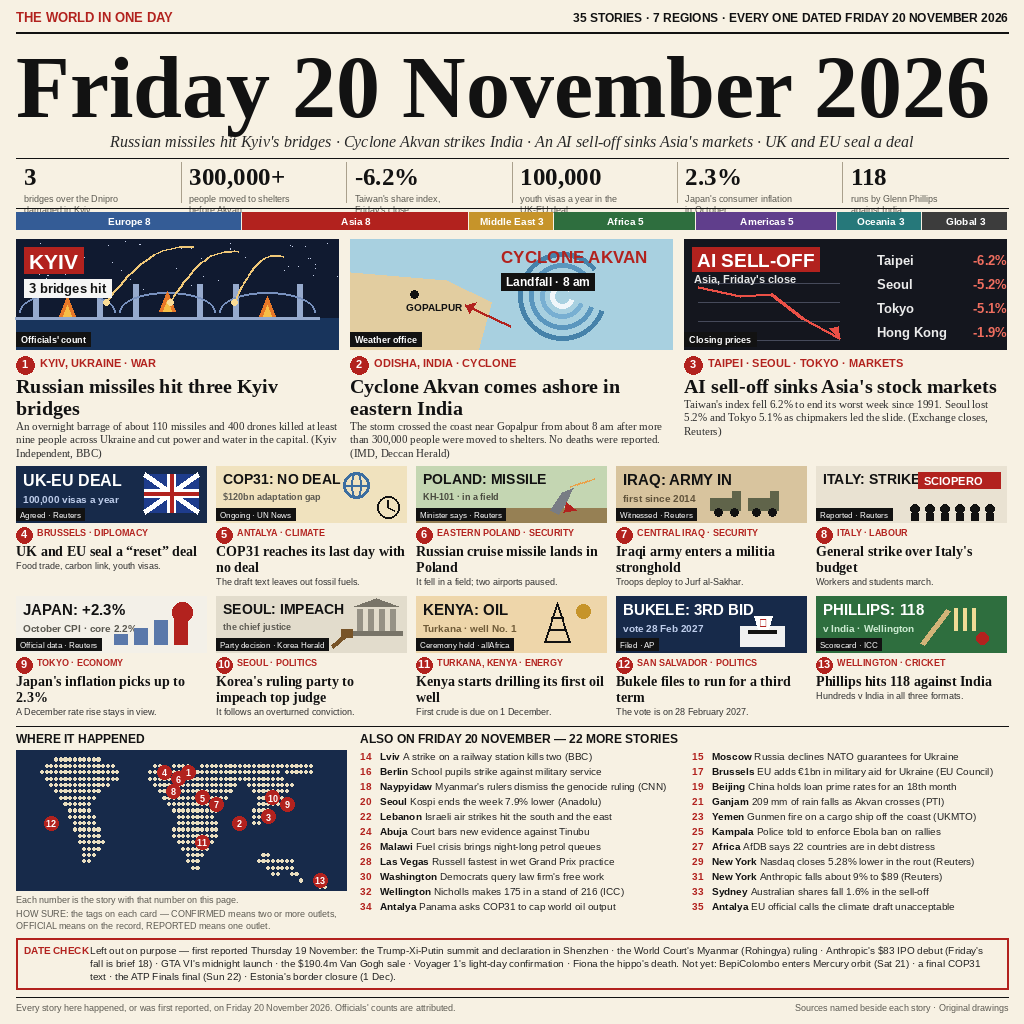
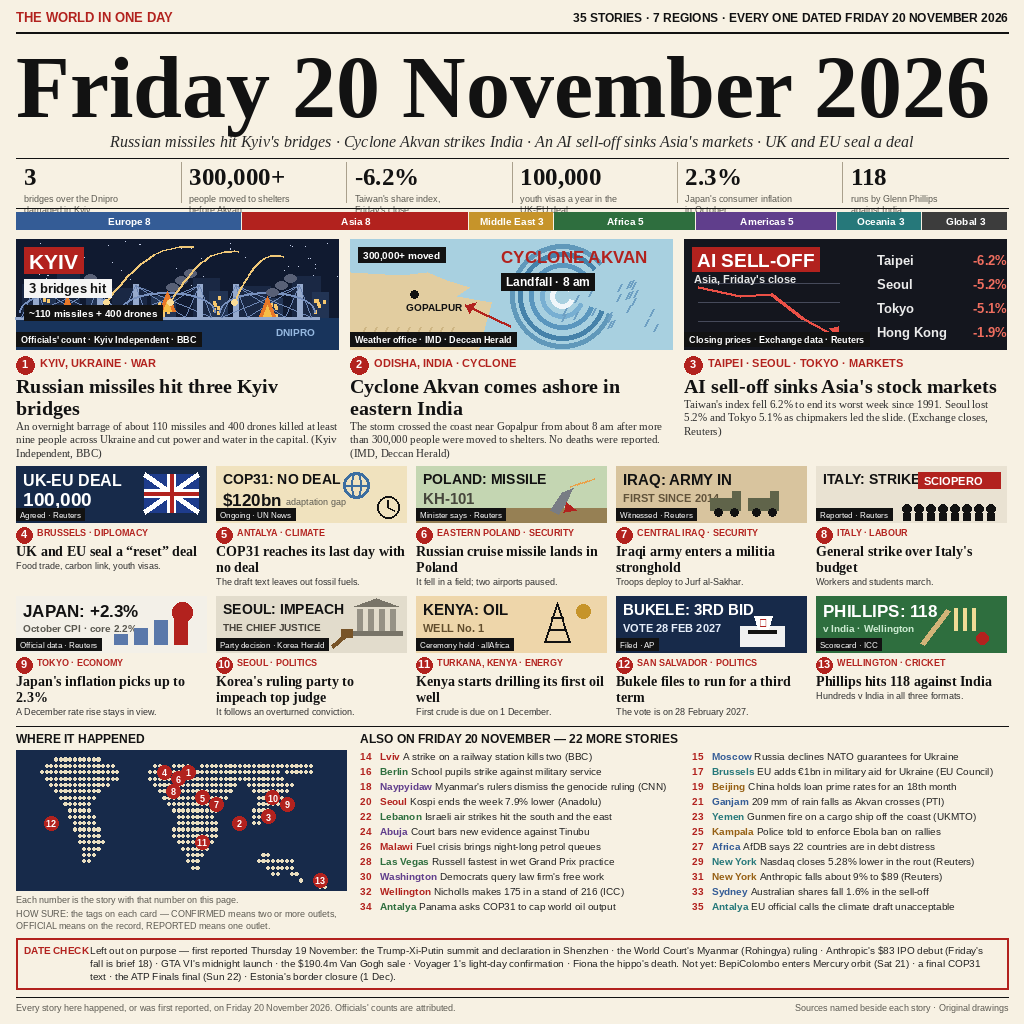
v2: labelled-diagram features, saturated scenes, big medium data, coloured brief leads

diff --git a/generate.py b/generate.py
@@ -54,18 +54,20 @@ REGIONS = [("Europe", 8, (52, 92, 150)), ("Asia", 8, RED),
            ("Global", 3, (60, 60, 60))]
 
 FEATURES = [
-    dict(n=1, label="KYIV, UKRAINE · WAR", art="kyiv", tag="Officials' count",
+    dict(n=1, label="KYIV, UKRAINE · WAR", art="kyiv",
+         tag="Officials' count · Kyiv Independent · BBC",
          head="Russian missiles hit three Kyiv bridges",
          cap="An overnight barrage of about 110 missiles and 400 drones killed "
              "at least nine people across Ukraine and cut power and water in "
              "the capital. (Kyiv Independent, BBC)"),
-    dict(n=2, label="ODISHA, INDIA · CYCLONE", art="akvan", tag="Weather office",
+    dict(n=2, label="ODISHA, INDIA · CYCLONE", art="akvan",
+         tag="Weather office · IMD · Deccan Herald",
          head="Cyclone Akvan comes ashore in eastern India",
          cap="The storm crossed the coast near Gopalpur from about 8 am after "
              "more than 300,000 people were moved to shelters. No deaths were "
              "reported. (IMD, Deccan Herald)"),
     dict(n=3, label="TAIPEI · SEOUL · TOKYO · MARKETS", art="selloff",
-         tag="Closing prices",
+         tag="Closing prices · Exchange data · Reuters",
          head="AI sell-off sinks Asia's stock markets",
          cap="Taiwan's index fell 6.2% to end its worst week since 1991. Seoul "
              "lost 5.2% and Tokyo 5.1% as chipmakers led the slide. "
@@ -195,16 +197,39 @@ def art_kyiv(d, x, y, w, h):
         sx, sy = x + rng.randrange(w), y + rng.randrange(int(h * 0.5))
         d.point((sx, sy), fill=(200, 210, 235))
     river_y = y + int(h * 0.72)
+    # two-layer skyline on the far bank, back layer taller and darker
+    for bx, bw_, bh, col in ((0.02, 30, 34, (26, 40, 68)), (0.13, 22, 44, (26, 40, 68)),
+                             (0.30, 34, 30, (26, 40, 68)), (0.55, 26, 40, (26, 40, 68)),
+                             (0.68, 36, 32, (26, 40, 68)), (0.86, 28, 42, (26, 40, 68))):
+        d.rectangle([x + int(w * bx), river_y - bh, x + int(w * bx) + bw_, river_y],
+                    fill=col)
+    for bx, bw_, bh in ((0.06, 20, 24), (0.22, 16, 30), (0.42, 24, 22),
+                        (0.60, 18, 27), (0.76, 22, 20), (0.92, 16, 26)):
+        x0 = x + int(w * bx)
+        d.rectangle([x0, river_y - bh, x0 + bw_, river_y], fill=(34, 52, 84))
+        for _ in range(6):  # lit windows
+            wx = x0 + 2 + rng.randrange(max(3, bw_ - 5))
+            wy = river_y - bh + 3 + rng.randrange(max(3, bh - 6))
+            d.rectangle([wx, wy, wx + 2, wy + 3], fill=(246, 200, 110))
     d.rectangle([x, river_y, x + w, y + h], fill=(24, 52, 92))
-    for bx in (0.16, 0.47, 0.78):  # three bridges: deck + towers + arc
+    d.text((x + w - 62, river_y + 8), "DNIPRO", font=F(SANS_B, 10),
+           fill=(150, 185, 225))
+    for bx in (0.16, 0.47, 0.78):  # three bridges: deck + towers + arc + cables
         cx = x + int(w * bx)
         d.line([cx - 52, river_y, cx + 52, river_y], fill=(150, 170, 205), width=3)
         for tx in (cx - 34, cx + 30):
             d.rectangle([tx, river_y - 34, tx + 5, river_y], fill=(150, 170, 205))
+            for ex in (cx - 46, cx - 20, cx + 18, cx + 44):  # cable stays
+                d.line([tx + 2, river_y - 33, ex, river_y - 1],
+                       fill=(110, 135, 180), width=1)
         d.arc([cx - 48, river_y - 26, cx + 48, river_y + 14], 180, 360,
               fill=(120, 145, 190), width=2)
-    for i, fx in enumerate((0.16, 0.47, 0.78)):  # fires on the bridge decks
+    for i, fx in enumerate((0.16, 0.47, 0.78)):  # fires + smoke on the decks
         cx, cy = x + int(w * fx), river_y - 2 - (i % 2) * 5
+        for s in range(3):  # smoke plume: stacked soft ellipses drifting right
+            exx, eyy = cx + 5 + s * 7, cy - 24 - s * 7
+            d.ellipse([exx - 6 + s * 2, eyy - 4, exx + 6 + s * 2, eyy + 4],
+                      fill=(88, 96, 118))
         d.polygon([(cx - 8, cy), (cx, cy - 20), (cx + 8, cy)], fill=(232, 120, 40))
         d.polygon([(cx - 4, cy), (cx, cy - 11), (cx + 4, cy)], fill=(246, 190, 70))
     for i in range(3):  # missile trails
@@ -220,17 +245,28 @@ def art_kyiv(d, x, y, w, h):
         d.ellipse([ex - 3, ey - 3, ex + 3, ey + 3], fill=(250, 220, 150))
     bw = chip(d, x + 8, y + 8, "KYIV", F(SANS_B, 21), RED)
     chip(d, x + 8, y + 40, "3 bridges hit", F(SANS_B, 13), (245, 245, 245), INK)
+    chip(d, x + 8, y + 66, "~110 missiles + 400 drones", F(SANS_B, 10), INK)
 
 
 def art_akvan(d, x, y, w, h):
     d.rectangle([x, y, x + w, y + h], fill=(168, 208, 224))
-    land = [(x, y + h), (x, y + int(h * 0.30)), (x + int(w * 0.30), y + int(h * 0.38)),
+    land = [(x, y + h), (x, y + int(h * 0.30)), (x + int(w * 0.16), y + int(h * 0.33)),
+            (x + int(w * 0.24), y + int(h * 0.30)), (x + int(w * 0.30), y + int(h * 0.38)),
+            (x + int(w * 0.37), y + int(h * 0.44)), (x + int(w * 0.33), y + int(h * 0.52)),
             (x + int(w * 0.44), y + int(h * 0.58)), (x + int(w * 0.40), y + h)]
     d.polygon(land, fill=(226, 205, 160))
+    for i in range(9):  # hatch texture on the land
+        hx = x + 8 + i * 11
+        d.line([hx, y + h - 8, hx + 8, y + h - 22], fill=(206, 182, 132), width=2)
     cx, cy = x + int(w * 0.66), y + int(h * 0.52)
-    for r, col in ((44, (70, 130, 170)), (33, (90, 150, 190)), (22, (120, 175, 210)),
-                   (12, (240, 246, 250))):
+    for r, col in ((52, (96, 152, 186)), (44, (70, 130, 170)), (33, (90, 150, 190)),
+                   (22, (120, 175, 210)), (12, (240, 246, 250))):
         d.arc([cx - r, cy - r, cx + r, cy + r], 20, 320, fill=col, width=5)
+    rng = random.Random(11)
+    for _ in range(26):  # rain streaks under the storm's east side
+        rx = cx + rng.randrange(-8, int(w * 0.30))
+        ry = cy + rng.randrange(-16, int(h * 0.30))
+        d.line([rx, ry, rx - 4, ry + 7], fill=(110, 160, 195), width=2)
     d.line([cx - 52, cy + 30, x + int(w * 0.36), y + int(h * 0.60)],
            fill=RED, width=3)
     d.polygon([(x + int(w * 0.36), y + int(h * 0.60)), (x + int(w * 0.36) + 11,
@@ -241,6 +277,7 @@ def art_akvan(d, x, y, w, h):
     d.text((gx - 8, gy + 7), "GOPALPUR", font=F(SANS_B, 10), fill=INK)
     d.text((x + int(w * 0.47), y + 8), "CYCLONE AKVAN", font=F(SANS_B, 17), fill=RED)
     chip(d, x + int(w * 0.47), y + 34, "Landfall · 8 am", F(SANS_B, 12), INK)
+    chip(d, x + 8, y + 8, "300,000+ moved", F(SANS_B, 10), INK)
 
 
 def art_selloff(d, x, y, w, h):
@@ -270,8 +307,7 @@ def art_selloff(d, x, y, w, h):
 def art_ukeu(d, x, y, w, h):
     d.rectangle([x, y, x + w, y + h], fill=NAVY)
     d.text((x + 7, y + 5), "UK-EU DEAL", font=F(SANS_B, 16), fill=(255, 255, 255))
-    d.text((x + 7, y + 27), "100,000 visas a year", font=F(SANS_B, 10),
-           fill=(190, 205, 235))
+    d.text((x + 7, y + 22), "100,000", font=F(SANS_B, 19), fill=(255, 255, 255))
     fx, fy, fw, fh = x + w - 62, y + 8, 54, 38  # simplified Union Jack
     d.rectangle([fx, fy, fx + fw, fy + fh], fill=(30, 60, 140))
     d.line([fx, fy, fx + fw, fy + fh], fill=(255, 255, 255), width=5)
@@ -285,7 +321,8 @@ def art_ukeu(d, x, y, w, h):
 def art_cop(d, x, y, w, h):
     d.rectangle([x, y, x + w, y + h], fill=(240, 226, 190))
     d.text((x + 7, y + 5), "COP31: NO DEAL", font=F(SANS_B, 14), fill=INK)
-    d.text((x + 7, y + 25), "$120bn adaptation gap", font=F(SANS_B, 9), fill=GREY)
+    d.text((x + 7, y + 24), "$120bn", font=F(SANS_B, 17), fill=INK)
+    d.text((x + 70, y + 30), "adaptation gap", font=F(SANS, 9), fill=GREY)
     cx, cy = x + w - 50, y + 19
     d.ellipse([cx - 13, cy - 13, cx + 13, cy + 13], outline=(60, 110, 160), width=3)
     d.ellipse([cx - 5, cy - 13, cx + 5, cy + 13], outline=(60, 110, 160), width=2)
@@ -300,7 +337,7 @@ def art_poland(d, x, y, w, h):
     d.rectangle([x, y, x + w, y + h], fill=(196, 214, 178))
     d.rectangle([x, y + h - 14, x + w, y + h], fill=(150, 128, 84))
     d.text((x + 7, y + 5), "POLAND: MISSILE", font=F(SANS_B, 14), fill=INK)
-    d.text((x + 7, y + 25), "KH-101 · in a field", font=F(SANS_B, 9), fill=(70, 70, 60))
+    d.text((x + 7, y + 24), "KH-101", font=F(SANS_B, 15), fill=(70, 70, 60))
     mx, my = x + w - 56, y + 22  # missile body, nose down-left
     d.polygon([(mx, my + 22), (mx + 12, my + 4), (mx + 22, my), (mx + 16, my + 14),
                (mx + 8, my + 26)], fill=(120, 124, 132))
@@ -313,7 +350,7 @@ def art_poland(d, x, y, w, h):
 def art_iraq(d, x, y, w, h):
     d.rectangle([x, y, x + w, y + h], fill=(216, 196, 158))
     d.text((x + 7, y + 5), "IRAQ: ARMY IN", font=F(SANS_B, 15), fill=INK)
-    d.text((x + 7, y + 26), "first since 2014", font=F(SANS_B, 10), fill=(96, 82, 58))
+    d.text((x + 7, y + 26), "FIRST SINCE 2014", font=F(SANS_B, 11), fill=(96, 82, 58))
     for i, tx in enumerate((x + w - 96, x + w - 58)):  # two trucks
         ty = y + h - 24
         d.rectangle([tx, ty, tx + 30, ty + 12], fill=(96, 100, 74))
@@ -328,15 +365,15 @@ def art_italy(d, x, y, w, h):
     sx = x + w - 88
     d.rectangle([sx, y + 6, sx + 82, y + 22], fill=RED)
     d.text((sx + 6, y + 9), "SCIOPERO", font=F(SANS_B, 11), fill=(255, 255, 255))
-    for i in range(6):  # crowd heads
-        hx = x + w - 96 + i * 15
+    for i in range(8):  # crowd heads
+        hx = x + w - 104 + i * 12
         d.ellipse([hx, y + h - 18, hx + 9, y + h - 9], fill=INK)
         d.rectangle([hx + 1, y + h - 9, hx + 8, y + h - 2], fill=INK)
 
 
 def art_japan(d, x, y, w, h):
     d.rectangle([x, y, x + w, y + h], fill=(243, 240, 232))
-    d.text((x + 7, y + 5), "JAPAN: +2.3%", font=F(SANS_B, 15), fill=INK)
+    d.text((x + 7, y + 5), "JAPAN: +2.3%", font=F(SANS_B, 17), fill=INK)
     d.text((x + 7, y + 26), "October CPI · core 2.2%", font=F(SANS_B, 10), fill=GREY)
     bx = x + w - 92
     for i, bh in enumerate((10, 16, 24, 33)):
@@ -348,7 +385,7 @@ def art_japan(d, x, y, w, h):
 def art_seoul(d, x, y, w, h):
     d.rectangle([x, y, x + w, y + h], fill=(226, 220, 204))
     d.text((x + 7, y + 5), "SEOUL: IMPEACH", font=F(SANS_B, 14), fill=INK)
-    d.text((x + 7, y + 25), "the chief justice", font=F(SANS_B, 9), fill=GREY)
+    d.text((x + 7, y + 25), "THE CHIEF JUSTICE", font=F(SANS_B, 10), fill=(70, 66, 58))
     bx = x + w - 52  # courthouse columns
     d.polygon([(bx, y + 10), (bx + 44, y + 10), (bx + 22, y + 2)], fill=(120, 116, 104))
     for i in range(4):
@@ -363,7 +400,7 @@ def art_seoul(d, x, y, w, h):
 def art_kenya(d, x, y, w, h):
     d.rectangle([x, y, x + w, y + h], fill=(238, 214, 170))
     d.text((x + 7, y + 5), "KENYA: OIL", font=F(SANS_B, 15), fill=INK)
-    d.text((x + 7, y + 26), "Turkana · well No. 1", font=F(SANS_B, 10), fill=(110, 90, 55))
+    d.text((x + 7, y + 26), "WELL No. 1", font=F(SANS_B, 11), fill=(96, 76, 44))
     dx, dy = x + w - 62, y + 6  # derrick
     d.polygon([(dx, dy + 40), (dx + 13, dy), (dx + 26, dy + 40)], outline=INK, width=2)
     d.line([dx + 4, dy + 27, dx + 22, dy + 27], fill=INK, width=2)
@@ -374,7 +411,7 @@ def art_kenya(d, x, y, w, h):
 def art_bukele(d, x, y, w, h):
     d.rectangle([x, y, x + w, y + h], fill=NAVY)
     d.text((x + 7, y + 5), "BUKELE: 3RD BID", font=F(SANS_B, 15), fill=(255, 255, 255))
-    d.text((x + 7, y + 26), "vote 28 Feb 2027", font=F(SANS_B, 10), fill=(190, 205, 235))
+    d.text((x + 7, y + 26), "VOTE 28 FEB 2027", font=F(SANS_B, 11), fill=(230, 238, 250))
     bx, by = x + w - 66, y + h - 26  # ballot box + paper
     d.rectangle([bx, by, bx + 44, by + 20], fill=(240, 240, 240))
     d.rectangle([bx + 8, by + 4, bx + 36, by + 7], fill=INK)
@@ -385,7 +422,7 @@ def art_bukele(d, x, y, w, h):
 
 def art_cricket(d, x, y, w, h):
     d.rectangle([x, y, x + w, y + h], fill=GREEN)
-    d.text((x + 7, y + 5), "PHILLIPS: 118", font=F(SANS_B, 15), fill=(255, 255, 255))
+    d.text((x + 7, y + 5), "PHILLIPS: 118", font=F(SANS_B, 17), fill=(255, 255, 255))
     d.text((x + 7, y + 26), "v India · Wellington", font=F(SANS_B, 10),
            fill=(205, 235, 210))
     for i in range(3):  # stumps
@@ -542,6 +579,7 @@ def compose():
     # briefs in two columns, cumulative heights so wrapped lines never collide
     bf = F(SANS, 10)
     bfb = F(SANS_B, 10)
+    place_cols = [RED, (52, 92, 150), GREEN, TEAL, PURPLE, (150, 96, 20)]
     colw = (CW - 344 - 16) / 2
     col_y = [y, y]
     for i, (place, text) in enumerate(BRIEFS):
@@ -551,7 +589,7 @@ def compose():
         num = str(14 + i)
         d.text((bx, by), num, font=F(SANS_B, 10), fill=RED)
         tx = bx + 20
-        d.text((tx, by), place, font=bfb, fill=INK)
+        d.text((tx, by), place, font=bfb, fill=place_cols[i % len(place_cols)])
         tx += tw(d, place, bfb) + 3
         lines = wrap(d, text, bf, bx + colw - tx)
         d.text((tx, by), lines[0] if lines else "", font=bf, fill=(35, 35, 35))
